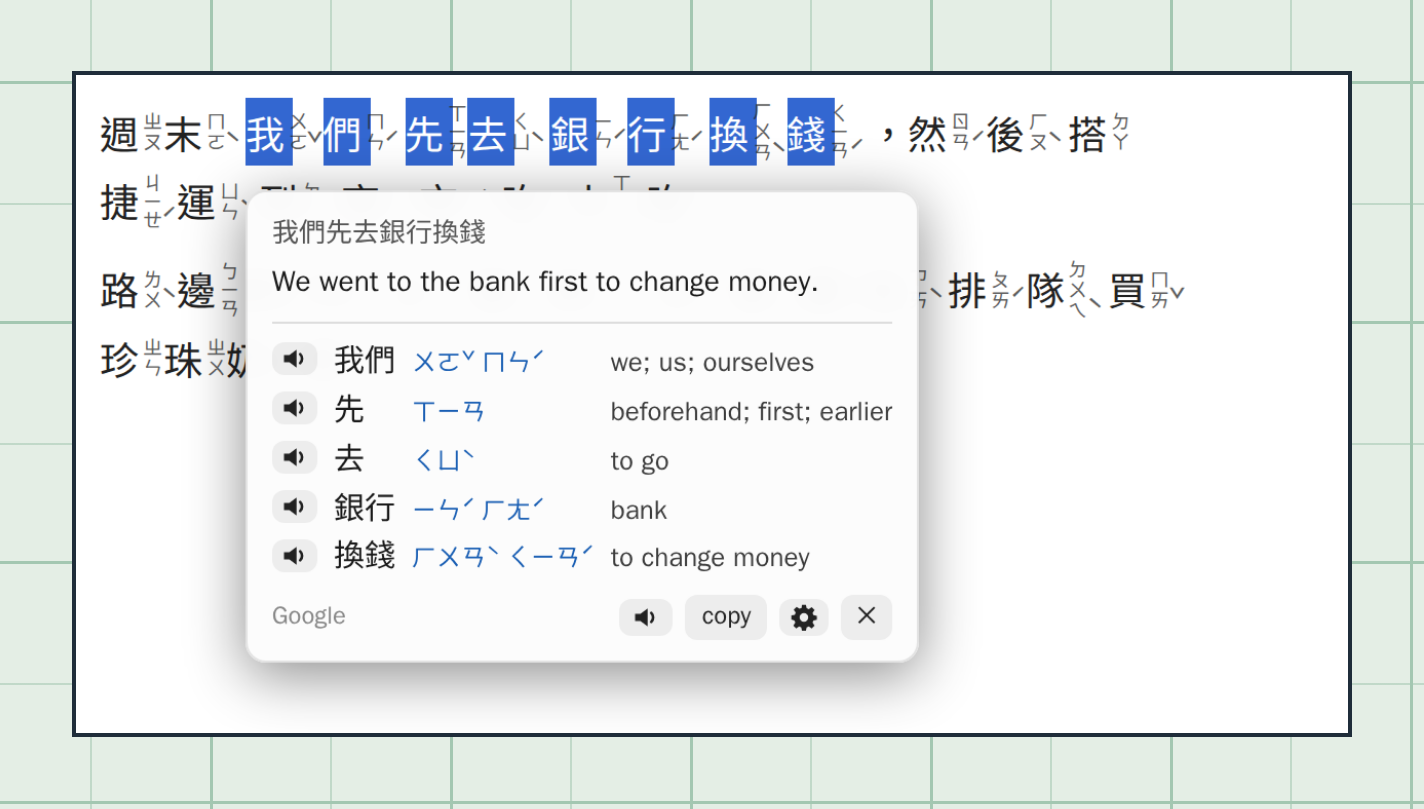
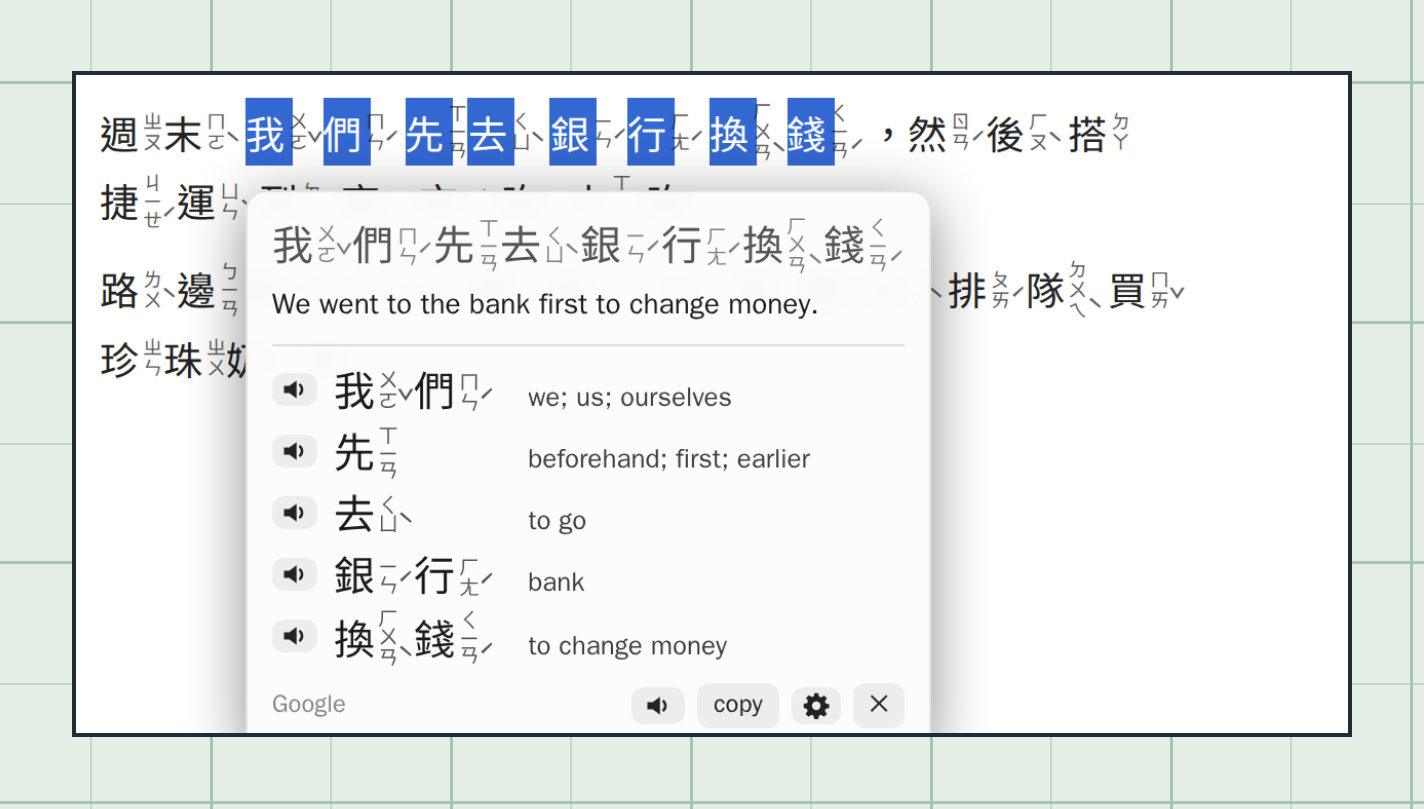
TASK-003 feat(popup): Show zhuyin by each character in popups by default; add tools/tests
Why: Textbook-style zhuyin beside each character is easier to read than a line after the word, and the tests lived in git-ignored tmp/ with no documented way to run them.

- Zhuyin in popups defaults to by each character; after the word stays as an option
- README settings table, word card text and CHANGELOG 0.8.0 updated
- hover, select, dark, languages, hide-meaning and settings images re-rendered
- tools/tests: settings and zhuyin-modes browser tests on a shared harness
- tools/run.sh test|images|poster uses local Node, or the Playwright container if there is none
- tools/README.md and tools/tests/README.md: setup, running tests, rebuilding images; task template and READMEs point to them

diff --git a/tools/tests/settings.test.js b/tools/tests/settings.test.js
@@ -1,0 +1,112 @@
+// Settings panel and menu, target languages, hide meaning, read-aloud key (TASK-002).
+const { chromium, ok, page, sh, hover, select, outDir, done } = require('./harness');
+const OUT = outDir(__filename);
+
+(async () => {
+  const browser = await chromium.launch();
+  let p;
+
+  // 1. English default: CC-CEDICT card, gear present, no Google request for the card
+  p = await page(browser);
+  await hover(p, '珍珠奶茶');
+  ok(await sh(p, `$('.gl').style.display === 'block' && !!$('.gl .cfg')`), 'en: card open with ⚙');
+  ok(await sh(p, `$$('.gl .ent').length > 0 && !$('.gl .tl')`), 'en: CC-CEDICT senses, no Google line');
+  ok(!(await p.evaluate(() => __req.length)), 'en: card made no request');
+  await p.screenshot({ path: OUT + '/1-card-en.png' });
+  // gear on the card → settings panel, card hidden
+  await sh(p, `$('.gl .cfg').click()`); await p.waitForTimeout(200);
+  ok(await sh(p, `$('.set').style.display === 'block' && $('.gl').style.display === 'none'`), 'card ⚙ opens panel, hides card');
+  ok(await sh(p, `$$('.set .row').length === 18`), 'panel has 18 rows');
+  await p.screenshot({ path: OUT + '/2-settings.png' });
+  // choose Lithuanian via the select, dark theme via button
+  await sh(p, `(() => { const s = $$('.set select')[0]; s.value = 'lt'; s.dispatchEvent(new Event('change')); })()`);
+  ok(await p.evaluate(() => __st.targetLang === 'lt'), 'select stores targetLang=lt');
+  await sh(p, `$$('.set .row').find(r => r.textContent.startsWith('Popup theme')).querySelectorAll('button')[1].click()`);
+  ok(await p.evaluate(() => __st.theme === 'dark'), 'theme button stores dark');
+  ok(await sh(p, `__sh.host.dataset.theme === 'dark' && $$('.set .row').find(r => r.textContent.startsWith('Popup theme')).querySelector('.on').textContent === 'dark'`), 'theme applied, panel re-rendered');
+  ok(await p.evaluate(() => __menu.some(m => m[0] === 'Translate to: Lithuanian (change…)') && __menu.some(m => m[0] === 'Settings…')), 'menu rebuilt with new values');
+  await p.screenshot({ path: OUT + '/3-settings-dark.png' });
+  await p.keyboard.press('Escape');
+  ok(await sh(p, `$('.set').style.display === 'none'`), 'Esc closes panel');
+  await p.close();
+
+  // 2. Lithuanian card: Google, batched word + chars in one request
+  p = await page(browser, { targetLang: 'lt' });
+  await hover(p, '珍珠奶茶');
+  ok(await sh(p, `$('.gl .tl .t').textContent === 'lt:珍珠奶茶'`), 'lt: card word line');
+  ok(await sh(p, `$$('.gl .part .m').map(m => m.textContent).join() === 'lt:珍,lt:珠,lt:奶,lt:茶'`), 'lt: character lines');
+  ok(await sh(p, `!$('.gl .ent')`), 'lt: no CC-CEDICT senses');
+  ok(await p.evaluate(() => __req.length === 1), 'lt: one request for word + chars');
+  await p.screenshot({ path: OUT + '/4-card-lt.png' });
+  await p.mouse.move(630, 590); await p.waitForTimeout(800);
+  await hover(p, '珍珠奶茶');
+  ok(await p.evaluate(() => __req.length === 1), 'lt: second hover served from cache');
+  await p.close();
+
+  // 3. Two languages, selection popup + word list
+  p = await page(browser, { targetLang: 'lt', targetLang2: 'en' });
+  await select(p);
+  ok(await sh(p, `$$('.tx .en').map(e => e.textContent).join('|') === 'LTlt:我們先去銀行換錢|ENen:我們先去銀行換錢'`), 'lt+en: two tagged lines');
+  ok(await sh(p, `$$('.wl .d').length > 2 && $$('.wl .d').every(d => d.children.length === 2 && d.children[0].textContent.startsWith('lt:') && !d.children[1].textContent.startsWith('en:'))`), 'word list: Google lt + CC-CEDICT en');
+  ok(await sh(p, `$('.via').textContent === 'Google · Lithuanian + English'`), 'via line');
+  await sh(p, `$('.cp').click()`);
+  ok(await p.evaluate(() => __clip === 'lt:我們先去銀行換錢\nen:我們先去銀行換錢'), 'copy copies both lines');
+  await p.screenshot({ path: OUT + '/5-select-lt-en.png' });
+  // the popup's own ⚙: panel beside the popup, popup stays
+  await sh(p, `$('.tr .cfg').click()`); await p.waitForTimeout(200);
+  ok(await sh(p, `$('.set').style.display === 'block' && $('.tr').style.display === 'block'`), 'popup ⚙ opens panel, popup stays');
+  await sh(p, `(() => { const s = $$('.set select')[1]; s.value = ''; s.dispatchEvent(new Event('change')); })()`);
+  await p.waitForTimeout(300);
+  ok(await sh(p, `$$('.tx .en').length === 1 && $('.tx .en').textContent === 'lt:我們先去銀行換錢'`), 'second language → none re-translates open popup');
+  await p.screenshot({ path: OUT + '/6-panel-beside-popup.png' });
+  await p.close();
+
+  // 4. Hide meaning: blurred until Shift held; R reads aloud the open popup, also with Shift held
+  p = await page(browser, { hideMeaning: true, targetLang: 'lt' });
+  await select(p);
+  ok(await sh(p, `__sh.host.hasAttribute('data-hide') && getComputedStyle($('.tx .en')).filter.includes('blur')`), 'hide: blurred');
+  ok(await sh(p, `getComputedStyle($('.src')).filter === 'none' && getComputedStyle($('.wl .p')).filter === 'none'`), 'hide: Chinese and readings stay sharp');
+  ok(await sh(p, `$('.via').textContent.endsWith('hold Shift')`), 'hide: hint');
+  await p.screenshot({ path: OUT + '/7-hidden.png' });
+  await p.keyboard.down('Shift'); await p.waitForTimeout(200);
+  ok(await sh(p, `!__sh.host.hasAttribute('data-hide')`), 'Shift held → revealed');
+  await p.screenshot({ path: OUT + '/8-revealed.png' });
+  await p.keyboard.up('Shift'); await p.waitForTimeout(50);
+  ok(await sh(p, `__sh.host.hasAttribute('data-hide')`), 'Shift released → hidden again');
+  await p.keyboard.press('Shift+KeyR'); await p.waitForTimeout(300);
+  ok(await p.evaluate(() => __req.some(u => u.includes('translate_tts') && decodeURIComponent(u).includes('我們先去銀行換錢'))), 'R (Shift held) reads the popup text');
+  await p.close();
+
+  // 5. bare R: nothing without a popup, page keeps the key; not while typing
+  p = await page(browser);
+  await p.evaluate(() => { window.__pageKeys = 0; addEventListener('keydown', () => __pageKeys++); });
+  await p.keyboard.press('KeyR'); await p.waitForTimeout(100);
+  ok(await p.evaluate(() => __pageKeys === 1 && !__req.length), 'R with no popup goes to the page');
+  await hover(p, '珍珠奶茶');
+  await p.evaluate(() => { const i = document.createElement('input'); i.id = 'tin'; document.body.prepend(i); });
+  await p.focus('#tin'); await p.keyboard.press('KeyR'); await p.waitForTimeout(200);
+  ok(await p.evaluate(() => !__req.some(u => u.includes('translate_tts'))), 'R while typing is not read aloud');
+  await p.evaluate(() => document.activeElement.blur());
+  await p.keyboard.press('KeyR'); await p.waitForTimeout(300);
+  ok(await p.evaluate(() => __req.some(u => u.includes('translate_tts')) && __pageKeys === 2), 'R on an open card reads it, page does not get it');
+  await p.close();
+
+  // 6. Alt+K configured: bare K and Alt+R do nothing, Alt+K reads the card word
+  p = await page(browser, { speakKey: 'Alt+K' });
+  await hover(p, '珍珠奶茶');
+  await p.keyboard.press('Alt+KeyR'); await p.waitForTimeout(200);
+  await p.keyboard.press('KeyK'); await p.waitForTimeout(200);
+  ok(!(await p.evaluate(() => __req.some(u => u.includes('translate_tts')))), 'Alt+R and bare K ignored when key is Alt+K');
+  await p.keyboard.press('Alt+KeyK'); await p.waitForTimeout(300);
+  ok(await p.evaluate(() => __req.some(u => u.includes('translate_tts') && decodeURIComponent(u).includes('q=珍珠奶茶'))), 'Alt+K reads the card word');
+  await p.close();
+
+  // 7. dark, two languages, card (screenshot only)
+  p = await page(browser, { targetLang: 'lt', targetLang2: 'en' }, 'dark');
+  await hover(p, '珍珠奶茶');
+  ok(await sh(p, `$('.gl .tl .lg').textContent === 'LT' && $('.gl .ent .lg').textContent === 'EN'`), 'card tags LT and EN');
+  await p.screenshot({ path: OUT + '/9-card-lt-en-dark.png' });
+  await p.close();
+
+  await done(browser);
+})();

diff --git a/tools/tests/zhuyin-modes.test.js b/tools/tests/zhuyin-modes.test.js
@@ -1,0 +1,71 @@
+// Zhuyin on page (on / hover / off, Alt+Z), hover zhuyin and zhuyin in popups (TASK-003).
+const { chromium, ok, page, sh, hover, select, outDir, done } = require('./harness');
+const OUT = outDir(__filename);
+
+const zyBox = (p, word) => p.evaluate((word) => {
+  const w = [...document.querySelectorAll('zy-w')].find((w) => [...w.querySelectorAll('zy-c')].map((c) => c.firstChild.nodeValue).join('') === word);
+  const z = w.querySelector('zy-z'), c = w.getBoundingClientRect(), b = getComputedStyle(w, '::before');
+  return { shown: getComputedStyle(z).display !== 'none', label: b.content !== 'none' && b.content !== 'normal' ? b.content : '',
+    above: b.bottom === c.height + 'px', wWidth: c.width, wLeft: c.left };
+}, word);
+const lineW = (p) => p.evaluate(() => document.querySelector('#p1').getBoundingClientRect().height);
+(async () => {
+  const browser = await chromium.launch();
+  let p = await page(browser);
+  const onH = await lineW(p), on = await zyBox(p, '珍珠奶茶');
+  ok(on.shown, 'on: zhuyin drawn');
+  await p.screenshot({ path: OUT + '/1-on.png' });
+  // Alt+Z → hover
+  await p.mouse.move(5, 5); await p.keyboard.press('Alt+z'); await p.waitForTimeout(300);
+  ok(await p.evaluate(() => __st.zhuyin === 'hover' && document.documentElement.classList.contains('zyh-hover')), 'Alt+Z: on → hover, saved');
+  const h0 = await zyBox(p, '珍珠奶茶');
+  ok(!h0.shown, 'hover: hidden while not hovered');
+  ok(await lineW(p) < onH, 'hover: paragraph shorter than with zhuyin');
+  await hover(p, '珍珠奶茶');
+  const h1 = await zyBox(p, '珍珠奶茶');
+  ok(!h1.shown && h1.label === '"ㄓㄣ ㄓㄨ ㄋㄞˇ ㄔㄚˊ"' && h1.above, 'hover: one label with the word\'s zhuyin above it ' + h1.label);
+  ok(Math.abs(h1.wWidth - h0.wWidth) < 0.5 && Math.abs(h1.wLeft - h0.wLeft) < 0.5, 'hover: word did not move or widen');
+  ok(!(await zyBox(p, '銀行')).label, 'hover: other words stay hidden');
+  ok(await sh(p, `$('.gl').style.display === 'block' && !!$('.gl .zy, .gl .zc')`), 'hover: card still opens with zhuyin');
+  await p.screenshot({ path: OUT + '/2-hover.png' });
+  // Alt+Z → off
+  await p.keyboard.press('Alt+z'); await p.waitForTimeout(300);
+  ok(await p.evaluate(() => __st.zhuyin === 'off'), 'Alt+Z: hover → off');
+  const o = await zyBox(p, '珍珠奶茶'); ok(!o.shown && !o.label, 'off: hidden even when hovered');
+  ok(await p.evaluate(() => __menu.some(m => m[0] === 'Zhuyin on page: off → on')), 'menu shows the mode');
+  await p.screenshot({ path: OUT + '/3-off.png' });
+  // Alt+Z → on: restarted, drawn again
+  await p.keyboard.press('Alt+z'); await p.waitForTimeout(1500);
+  ok((await zyBox(p, '珍珠奶茶')).shown && Math.abs(await lineW(p) - onH) < 1, 'Alt+Z: off → on, drawn as before');
+  await p.close();
+  // persisted: boots in hover; panel row
+  p = await page(browser, { zhuyin: 'hover' });
+  ok(await p.evaluate(() => document.documentElement.classList.contains('zyh-hover')), 'saved mode applies on load');
+  await hover(p, '珍珠奶茶'); await sh(p, `$('.gl .cfg').click()`); await p.waitForTimeout(200);
+  ok(await sh(p, `$$('.set .row').find(r => r.textContent.startsWith('Zhuyin on page')).querySelector('.on').textContent === 'hover'`), 'panel row shows hover');
+  await sh(p, `$$('.set .row').find(r => r.textContent.startsWith('Zhuyin on page')).querySelectorAll('button')[2].click()`);
+  ok(await p.evaluate(() => __st.zhuyin === 'off' && document.documentElement.classList.contains('zyh-off')), 'panel button sets off');
+  await p.screenshot({ path: OUT + '/4-panel.png' });
+  // inline hover
+  await sh(p, `$$('.set .row').find(r => r.textContent.startsWith('Zhuyin on page')).querySelectorAll('button')[1].click()`);
+  await sh(p, `$$('.set .row').find(r => r.textContent.startsWith('Hover zhuyin')).querySelectorAll('button')[1].click()`);
+  ok(await p.evaluate(() => __st.hoverZhuyin === 'inline' && document.documentElement.classList.contains('zyh-inline')), 'panel sets hover in the line');
+  await p.keyboard.press('Escape');
+  await hover(p, '珍珠奶茶', 0);
+  const il = await zyBox(p, '珍珠奶茶');
+  ok(il.shown && !il.label, 'inline: zhuyin drawn in the line, no label');
+  ok(!(await zyBox(p, '銀行')).shown, 'inline: other words stay hidden');
+  await p.screenshot({ path: OUT + '/5-inline.png' });
+  await p.close();
+  // popups: zhuyin by each character
+  p = await page(browser, { popupZhuyin: 'beside' });
+  await hover(p, '珍珠奶茶');
+  ok(await sh(p, `$$('.gl .han .zc').length === 4 && !$('.gl .hw .zy')`), 'beside: card word has zhuyin by each character');
+  await p.screenshot({ path: OUT + '/6-card-beside.png' });
+  await select(p);
+  ok(await sh(p, `$('.src').classList.contains('zb') && $$('.src .zc').length > 5 && $$('.wl .h .zc').length > 3 && $$('.wl .p').every(x => !x.textContent)`), 'beside: selected text and word list by each character');
+  ok(await sh(p, `$$('.src .zc').length > 0`) && await p.evaluate(() => !/[ㄅ-ㄩ]/.test(__req.join(''))), 'beside: Google gets no zhuyin');
+  await p.screenshot({ path: OUT + '/7-select-beside.png' });
+  await p.close();
+  await done(browser);
+})();

diff --git a/tools/tests/harness.js b/tools/tests/harness.js
@@ -1,0 +1,65 @@
+// Shared by the *.test.js files: runs the real userscript on tools/assets/site.html in headless Chromium.
+// Violentmonkey's GM_* API is faked in the page. Google is faked too: a translation is "<tl>:<source>", line by
+// line, so language and batching are visible. The popup's closed shadow root is opened so tests can read it.
+const path = require('path'), fs = require('fs');
+const ROOT = path.resolve(__dirname, '../..'), A = ROOT + '/tools/assets';
+const { chromium } = require(A + '/node_modules/playwright');
+const DICT = fs.readFileSync(A + '/vendor/zhuyin-dict.js', 'utf8');
+const GZ = fs.readFileSync(A + '/vendor/cedict.gz').toString('base64');
+let fails = 0;
+const ok = (c, m) => { console.log((c ? 'PASS ' : 'FAIL ') + m); if (!c) fails++; };
+
+async function page(browser, store = {}, colorScheme = 'light') {
+  const p = await browser.newPage({ viewport: { width: 640, height: 600 }, deviceScaleFactor: 2, colorScheme });
+  p.on('pageerror', (e) => { console.log('pageerror', e.message); fails++; });
+  await p.goto('file://' + A + '/site.html');
+  await p.evaluate(([dict, gz, st]) => {
+    const att = Element.prototype.attachShadow;
+    Element.prototype.attachShadow = function (o) { return (window.__sh = att.call(this, { ...o, mode: 'open' })); };
+    const bin = Uint8Array.from(atob(gz), (c) => c.charCodeAt(0));
+    const url = URL.createObjectURL(new Blob([bin]));
+    window.__req = []; window.__menu = [];
+    Object.assign(window, {
+      GM_getResourceText: () => dict, GM_getResourceURL: (n) => (n === 'cedict' ? url : null),
+      GM_getValue: (k, v) => (k in st ? st[k] : v), GM_setValue: (k, v) => { st[k] = v; }, __st: st,
+      GM_registerMenuCommand: (n, f) => { __menu.push([n, f]); return n; },
+      GM_unregisterMenuCommand: (n) => { __menu = __menu.filter(m => m[0] !== n); }, GM_setClipboard: (t) => { window.__clip = t; },
+      GM_xmlhttpRequest: (o) => {
+        __req.push(o.url);
+        if (o.url.includes('translate_tts')) return setTimeout(() => o.onerror(), 10);
+        const tl = /tl=([^&]+)/.exec(o.url)[1], q = decodeURIComponent(o.url.split('&q=')[1]);
+        const out = q.split('\n').map(l => tl + ':' + l).join('\n');
+        setTimeout(() => o.onload({ status: 200, responseText: JSON.stringify([[[out, q]]]) }), 20);
+      },
+    });
+  }, [DICT, GZ, store]);
+  await p.addScriptTag({ path: ROOT + '/zhuyin-anywhere.user.js' });
+  await p.waitForTimeout(1200);
+  return p;
+}
+const sh = (p, js) => p.evaluate(`(() => { const $ = (s) => __sh.querySelector(s), $$ = (s) => [...__sh.querySelectorAll(s)]; return ${js}; })()`);
+const hover = async (p, word, idx = 1) => {
+  const c = await p.evaluate(([word, idx]) => {
+    const w = [...document.querySelectorAll('zy-w')].find((w) => [...w.querySelectorAll('zy-c')].map((c) => c.firstChild.nodeValue).join('') === word);
+    const r = w.querySelectorAll('zy-c')[idx].getBoundingClientRect(); return { x: r.left + r.width * 0.3, y: r.top + r.height / 2 };
+  }, [word, idx]);
+  await p.mouse.move(5, 5); await p.mouse.move(c.x, c.y); await p.waitForTimeout(1600);
+};
+const select = async (p) => {
+  await p.evaluate(() => {
+    const ws = [...document.querySelectorAll('#p1 zy-w')];
+    const a = ws.find((w) => w.textContent.startsWith('我')), z = ws.find((w) => w.textContent.startsWith('換'));
+    const r = document.createRange(); r.setStartBefore(a); r.setEndAfter(z); getSelection().removeAllRanges(); getSelection().addRange(r);
+  });
+  await p.mouse.move(300, 150); await p.mouse.up(); await p.waitForTimeout(1200); await p.mouse.move(630, 590);
+};
+
+// Screenshots for a look by eye go to tools/tests/out/<test name>/ (git-ignored).
+const outDir = (file) => { const d = path.join(__dirname, 'out', path.basename(file, '.test.js')); fs.mkdirSync(d, { recursive: true }); return d; };
+const done = async (browser) => {
+  await browser.close();
+  console.log(fails ? `${fails} FAILED` : 'ALL PASSED');
+  process.exit(fails ? 1 : 0);
+};
+
+module.exports = { chromium, ok, page, sh, hover, select, outDir, done };

diff --git a/zhuyin-anywhere.user.js b/zhuyin-anywhere.user.js
@@ -69,7 +69,7 @@
   // ---------------------------------------------------------------- config
   const CFG = {
     zhuyin: GM_getValue('zhuyin', 'on'),             // on the page: 'on' | 'hover' (over the hovered word only) | 'off'; the card always shows it
-    popupZhuyin: GM_getValue('popupZhuyin', 'after'),// card, selected text, word list: 'after' (after the word, one line) | 'beside' (by each character)
+    popupZhuyin: GM_getValue('popupZhuyin', 'beside'),// card, selected text, word list: 'beside' (by each character) | 'after' (after the word, one line)
     hoverZhuyin: GM_getValue('hoverZhuyin', 'label'),// 'hover' mode: 'label' (one label above the word, moves nothing) | 'inline' (drawn in the line)
     layout: GM_getValue('layout', 'side'),           // 'side' (textbook column) | 'top' (horizontal, above)
     scale: 0.5,                                       // zhuyin size relative to the annotated text
@@ -1295,7 +1295,7 @@
       hint: 'hover: only over the word under the pointer. The word card always shows it. Alt+Z switches',
       // Drawn zhuyin again: restart, so the overflow guard measures it (while hidden, nothing overflowed).
       apply: (v) => { zhuyinClass(v); if (v === 'on' && active) { stop(); start(); } } },
-    { label: 'Zhuyin in popups', k: 'popupZhuyin', opts: [['after', 'after the word'], ['beside', 'by each character']],
+    { label: 'Zhuyin in popups', k: 'popupZhuyin', opts: [['beside', 'by each character'], ['after', 'after the word']],
       apply: () => { hideGloss(); retranslate(); }, hint: 'Word card, selected text and word list' },
     { label: 'Hover zhuyin', k: 'hoverZhuyin', opts: [['label', 'label above'], ['inline', 'in the line']], apply: () => zhuyinClass(CFG.zhuyin),
       hint: 'With Zhuyin on page: hover. In the line can push the word to the next line' },

diff --git a/README.md b/README.md
@@ -59,7 +59,7 @@ On a phone or tablet (Firefox for Android with Violentmonkey), tap a word to ope
 
 In this example, "pearls + milk + tea" turns out to be bubble tea.
 
-With **Zhuyin in popups** set to `by each character`, the card, the selected text in the translation box and its word list show the zhuyin beside each character, textbook style, instead of after the word.
+The card, the selected text in the translation box and its word list show the zhuyin beside each character, textbook style. Set **Zhuyin in popups** to `after the word` to show it after the word instead.
 
 <p align="center"><img src="docs/img/hover.png" alt="Hover card for 珍珠奶茶: pearl milk tea, bubble milk tea; 珍 precious thing, 珠 bead (highlighted), 奶 breast, 茶 tea" width="560"></p>
 
@@ -183,7 +183,7 @@ Neither is loaded on pages that have no Chinese text. The meaning dictionary is 
 | Reveal key | <kbd>Shift</kbd> (default), <kbd>Alt</kbd> or <kbd>Ctrl</kbd> |
 | Read aloud key | A letter, <kbd>R</kbd> by default, or <kbd>Alt</kbd> + a letter |
 | Zhuyin on page | `on` (default), `hover` (only on the word under the pointer) or `off`. The word card always shows it. |
-| Zhuyin in popups | `after the word` (default) or `by each character`, in the word card, the selected text and the word list |
+| Zhuyin in popups | `by each character` (default) or `after the word`, in the word card, the selected text and the word list |
 | Hover zhuyin | With `hover`: `label above` (default, moves nothing) or `in the line` |
 | Layout | `side`: textbook style, symbols beside the character. `top`: horizontal, above the character. |
 | Highlight polyphones | Tints characters whose reading is a best guess between several options |
@@ -235,4 +235,4 @@ MIT, see [`LICENSE`](LICENSE).
 
 ## Images in this README
 
-The images are rendered from [`tools/assets/`](tools/assets/), which runs the real userscript in headless Chromium. Run `node build.js` there to regenerate them after changing the script.
+The images are rendered from [`tools/assets/`](tools/assets/), which runs the real userscript in headless Chromium. Run `sh tools/run.sh images` to regenerate them after changing the script, and `sh tools/run.sh test` for the browser tests; see [`tools/README.md`](tools/README.md).

diff --git a/docs/tasks/task_template.md b/docs/tasks/task_template.md
@@ -11,7 +11,7 @@ Status: **<Not started | Planning, nothing implemented | Subtask N.M in progress
 - Project rules: never `git stash`, never run `git commit` (print a Suggested commit block instead), temporary files only in `./tmp/`, KISS, one file (`zhuyin-anywhere.user.js`) and no build step, reuse the popup's existing CSS classes and light/dark colours, no backwards compatibility.
 - `README.md`: what the user sees; update it when keys, menu entries or features change.
 - The pipeline comment at the top of `zhuyin-anywhere.user.js`: how the script is put together.
-- `tools/assets/README.md`: how the README images in `docs/img/` are rendered; rerun `node build.js` there when the UI changes.
+- `tools/README.md`: how to run the tests (`sh tools/run.sh test`) and rebuild the README images in `docs/img/` (`sh tools/run.sh images`) when the UI changes.
 - <Other task docs or READMEs this task builds on, with one line on why.>
 
 ## Overview
@@ -135,12 +135,12 @@ graph TD
 
 ## Instructions
 
-- Run `node --check zhuyin-anywhere.user.js`.
+- Run `sh tools/run.sh test` (syntax check + browser tests). Add or extend a `tools/tests/*.test.js` for new behaviour.
 - Bump `@version` in the metadata block when behaviour changes, so Violentmonkey picks up the update.
 - Add an entry to `CHANGELOG.md` (commit hash, date, changes) under the version it ships in, `Unreleased` if none. Fill in the hash once the user has committed.
 - Test in Violentmonkey on Firefox and, when the change touches browser APIs, on Chrome too. A local test page in `./tmp/` opened as `file:///` works: the script matches local files.
 - if UI/UX changed, make sure to show specific changes and give paths to screenshots. Keep them in `./tmp/`.
-- if UI/UX changed, regenerate the README images: `cd tools/assets && node build.js` (setup in `tools/assets/README.md`), and check that popups still fit their crops.
+- if UI/UX changed, regenerate the README images: `sh tools/run.sh images` (setup in `tools/README.md`), and check that popups still fit their crops. Keep only the images whose content changed; `git checkout` the ones that differ only by anti-aliasing.
 
 ### Gotchas (learned the hard way)
 

diff --git a/tools/tests/README.md b/tools/tests/README.md
@@ -1,0 +1,27 @@
+# Tests
+
+Each `*.test.js` opens `../assets/site.html` (the demo blog page) in headless Chromium, loads the real `zhuyin-anywhere.user.js` into it, and drives it the way a user would: moving the mouse onto a word, selecting text, pressing keys, clicking in the settings panel. It prints one `PASS`/`FAIL` line per check and exits non-zero on any failure.
+
+Run them with `sh tools/run.sh test` from the repository root; setup is in [`../README.md`](../README.md).
+
+| File | Covers |
+|---|---|
+| `harness.js` | Shared setup, see below |
+| `settings.test.js` | Settings panel and menu, target languages, word card and word list translations, copy, hide meaning and its reveal key, the read-aloud key |
+| `zhuyin-modes.test.js` | Zhuyin on page (`on`/`hover`/`off`, Alt+Z), hover label vs. in the line, zhuyin in popups by each character |
+
+## What `harness.js` fakes
+
+- **Violentmonkey's `GM_*` API.** Settings live in a plain object: pass starting values as `page(browser, { zhuyin: 'hover' })` and read what the script saved from `__st` in the page. Menu commands collect in `__menu`, the clipboard in `__clip`.
+- **Google.** Every request is logged in `__req`. A translation comes back as `<target language>:<source line>`, line by line, so a test can see which language was asked for and how lines were batched. Read-aloud requests fail at once, so no audio plays.
+- **The closed shadow root.** `attachShadow` is patched to open it, and `sh(p, js)` runs `js` with `$`/`$$` bound to the popup's shadow root.
+
+`hover(p, word)` puts the pointer on a word on the page and waits for the card; `select(p)` selects 我們先去銀行換錢 and lets the translation open.
+
+## Screenshots
+
+Each test also saves screenshots of the states it checks to `out/<test name>/` (git-ignored). They aren't compared to anything; they're for a look by eye after a UI change.
+
+## Adding a test
+
+Copy the top three lines of an existing test, then `(async () => { const browser = await chromium.launch(); … await done(browser); })();`. Keep one test file per feature area, and name each check after the behaviour it proves (`'hover: word did not move or widen'`).

diff --git a/tools/README.md b/tools/README.md
@@ -1,0 +1,36 @@
+# Tools
+
+Nothing here is part of the userscript. It's what checks it and draws the README images.
+
+| Folder | What it is |
+|---|---|
+| [`tests/`](tests/README.md) | Browser tests: the real userscript on a demo page in headless Chromium |
+| [`assets/`](assets/README.md) | Renders the images in `docs/img/` with the real userscript |
+
+Both use Node and Playwright. `run.sh` runs them with your own Node if you have it, otherwise in the Playwright container through podman (or docker), so nothing needs to be installed but the container runtime.
+
+## First time
+
+```sh
+cd tools/assets
+sh fetch-deps.sh             # dictionaries + fonts, about 30 MB, not committed
+npm install                  # Playwright; skip if you only use the container
+npx playwright install chromium   # likewise
+```
+
+Tests and images both need `fetch-deps.sh`. In the container, `npm install` still has to have run once (`node_modules/` is read from the mounted folder): `podman run --rm -v "$PWD":/w:Z -w /w mcr.microsoft.com/playwright:v1.64.1-noble npm ci`.
+
+## Everyday
+
+From the repository root:
+
+```sh
+sh tools/run.sh test             # node --check on the script, then every tools/tests/*.test.js
+sh tools/run.sh test settings    # one test file (tools/tests/settings.test.js)
+sh tools/run.sh images           # rebuild docs/img/*.png
+sh tools/run.sh poster           # also tools/assets/out/poster.png
+```
+
+Run the tests after every change to `zhuyin-anywhere.user.js`. Rebuild the images when something visible changes (a popup, a setting's default, the settings panel); the README text should match what they show.
+
+The container image's Playwright version must match `tools/assets/package-lock.json` (now 1.64.1), otherwise its browsers are missing. Change both together.

diff --git a/CHANGELOG.md b/CHANGELOG.md
@@ -8,7 +8,7 @@ Newest first. Versions are the userscript's `@version`; each entry lists the com
 
 - "Zhuyin on page": `on`, `hover` or `off`, saved, for all sites. The text stays annotated, so the word card and the translation box work as before. Alt+Z switches between the three instead of a show/hide that was forgotten on reload.
 - `hover`: the word under the pointer gets one label with its zhuyin above it, outside the text flow so nothing moves. "Hover zhuyin: in the line" draws it beside the characters instead.
-- "Zhuyin in popups": `after the word` or `by each character` (textbook style) in the word card, the selected text (up to 120 characters) and the word list.
+- "Zhuyin in popups": `by each character` (textbook style, the default) or `after the word` in the word card, the selected text (up to 120 characters) and the word list.
 
 ## 0.7.0
 

diff --git a/tools/assets/README.md b/tools/assets/README.md
@@ -4,6 +4,8 @@ Everything in `docs/img/` is rendered from this folder. Each image shows the rea
 
 ## Rebuild
 
+The short way, with Node or only podman/docker: `sh tools/run.sh images` from the repository root (see [`../README.md`](../README.md)). By hand:
+
 Requirements: Node 18+, Python 3, curl.
 
 ```sh
